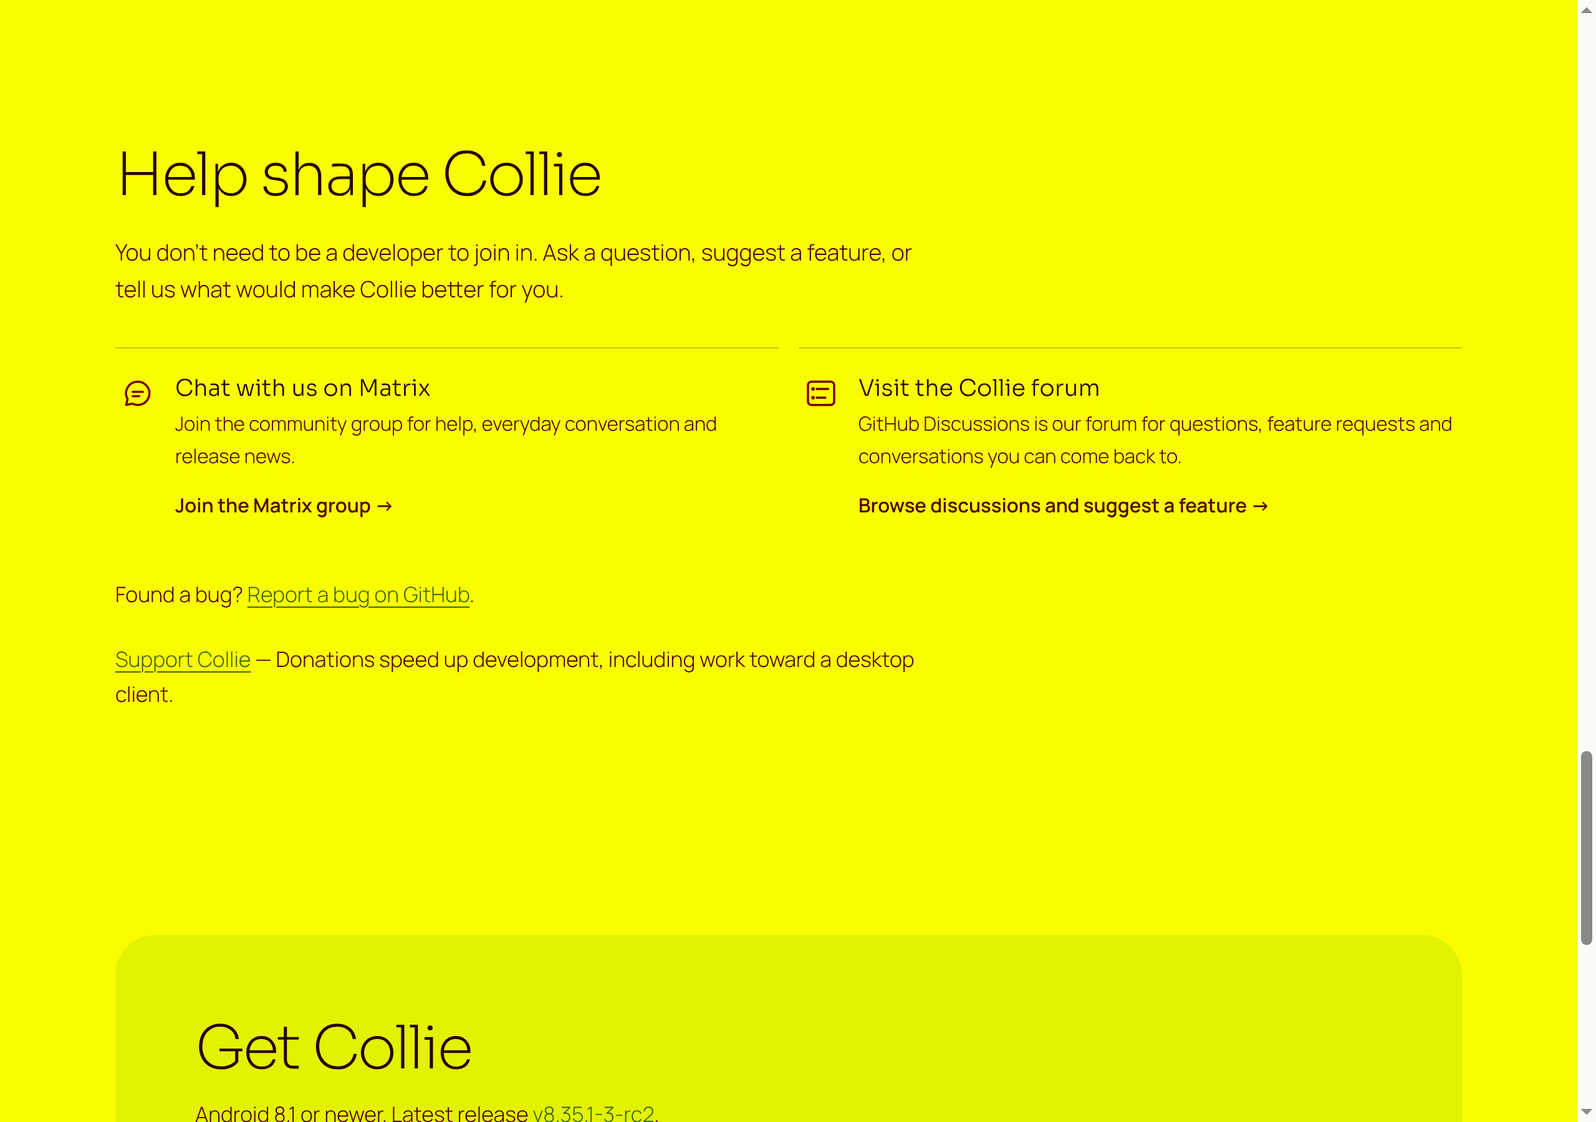
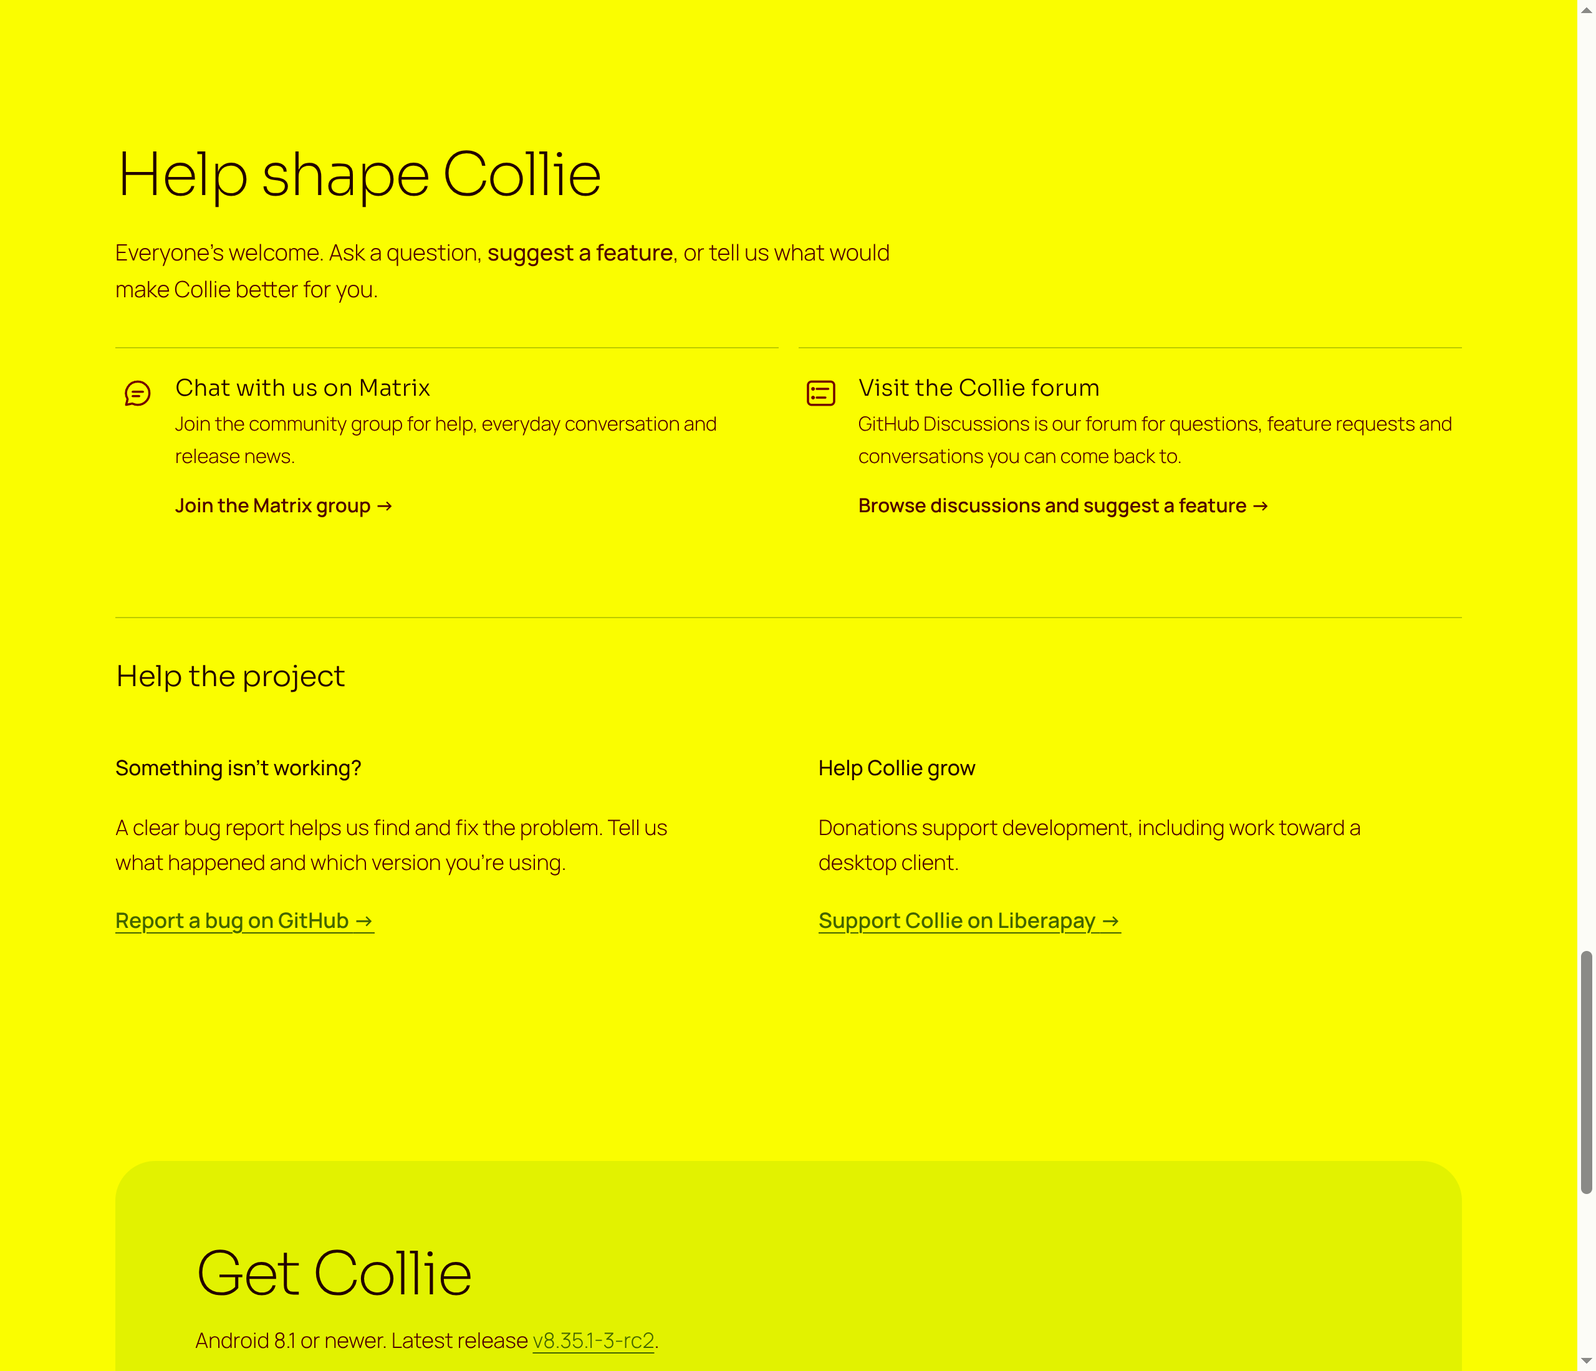
Generate upcoming features from planned Discussions
Refresh the existing Upcoming/Planned Features category during daily website builds, prioritize labelled discussions and distinguish plans from available features. Explain Google-free notifications in plain language and add selective emphasis. Separate bug reporting from donations and give the F-Droid repository the same primary button as Obtainium. Cover filtering, escaping, pagination and API failures; reject output paths that would delete the source.

Layer: website

diff --git a/docs/site/index.html b/docs/site/index.html
@@ -51,6 +51,7 @@ FORM: User-pinned direction (palette, fonts, dark hero with lichen cards), no ro
     <nav aria-label="Main">
       <a href="#features">Features</a>
       <a href="#open">About Collie</a>
+      <a href="#upcoming">Upcoming features</a>
       <a class="nav-community" href="#community">Community</a>
       <a class="nav-get" href="#get">Get Collie</a>
     </nav>
@@ -59,7 +60,7 @@ FORM: User-pinned direction (palette, fonts, dark hero with lichen cards), no ro
   <section class="hero shell" aria-labelledby="hero-title">
     <div class="hero-copy">
       <h1 id="hero-title">Private messages on the Signal&nbsp;network. <span>Stronger protection on your&nbsp;phone.</span></h1>
-      <p class="lede">Collie is a free, open-source Android messenger. Message and call your Signal contacts as you always have, while Collie keeps a tighter hold on what's stored on your device.</p>
+      <p class="lede">Collie is a free, open-source Android messenger. Message and call <strong>your Signal contacts</strong> as you always have, while Collie keeps a tighter hold on what's stored on your device.</p>
       <div class="actions">
         <a class="button primary" href="#get">Get Collie</a>
         <a class="button ghost" href="#community">Meet the community <svg class="ico" aria-hidden="true"><use href="#i-arrow"/></svg></a>
@@ -91,7 +92,7 @@ FORM: User-pinned direction (palette, fonts, dark hero with lichen cards), no ro
       <article class="card featured">
         <svg class="ico big" aria-hidden="true"><use href="#i-lock"/></svg>
         <h3>Locked when you step away</h3>
-        <p>Encrypt your message database with a passphrase you choose. Collie locks itself after a set time, and a lost or stolen phone keeps your conversations encrypted until the passphrase is entered.</p>
+        <p>Encrypt your message database with <strong>a passphrase you choose</strong>. Collie locks itself after a set time, and a lost or stolen phone keeps your conversations encrypted until the passphrase is entered.</p>
       </article>
       <article class="card">
         <svg class="ico" aria-hidden="true"><use href="#i-memory"/></svg>
@@ -106,7 +107,7 @@ FORM: User-pinned direction (palette, fonts, dark hero with lichen cards), no ro
       <article class="card">
         <svg class="ico" aria-hidden="true"><use href="#i-bell"/></svg>
         <h3>Notifications without Google</h3>
-        <p>Use WebSocket or <a href="https://unifiedpush.org/">UnifiedPush</a> instead of Google's push service. UnifiedPush needs a MollySocket server you trust, ideally your own. <a href="https://github.com/0cwa/collieim-android#free-and-open-source">Why it matters</a></p>
+        <p>Use WebSocket or <a href="https://unifiedpush.org/">UnifiedPush</a> instead of Google's push service. UnifiedPush needs a MollySocket server you trust, ideally your own. <a href="#upcoming">Why it matters and why we're working on making it easy.</a></p>
       </article>
       <article class="card">
         <svg class="ico" aria-hidden="true"><use href="#i-fresh"/></svg>
@@ -165,15 +166,38 @@ FORM: User-pinned direction (palette, fonts, dark hero with lichen cards), no ro
     <p class="fine">Collie is independent of Signal and Molly. Signal's <a href="https://signal.org/legal/">Terms and Privacy Policy</a> apply when you use its service.</p>
   </section>
 
+  <section id="upcoming" class="upcoming shell" aria-labelledby="upcoming-title">
+    <h2 id="upcoming-title">Upcoming features</h2>
+    <p class="upcoming-intro">Notifications should work on phones without Google services, too. UnifiedPush lets you <strong>choose who delivers your notifications</strong>, but setup still takes extra steps. We're working on making it easier and bringing these notifications to linked phones, alongside the other plans below.</p>
+    <p class="upcoming-status"><em>Planned work, not features you can use yet. Plans can change; each discussion tracks the latest progress.</em></p>
+    <ul class="roadmap-list">
+      {{UPCOMING_FEATURES}}
+    </ul>
+    <p class="upcoming-more"><a href="https://github.com/0cwa/collieim-android/discussions/categories/upcoming-planned-features">Follow all upcoming features</a> · <a href="https://github.com/0cwa/collieim-android/discussions/categories/ideas-requests">Suggest a feature</a></p>
+  </section>
+
   <section id="community" class="community shell" aria-labelledby="community-title">
     <h2 id="community-title">Help shape Collie</h2>
-    <p class="community-intro">You don't need to be a developer to join in. Ask a question, suggest a feature, or tell us what would make Collie better for you.</p>
+    <p class="community-intro">Everyone's welcome. Ask a question, <strong>suggest a feature</strong>, or tell us what would make Collie better for you.</p>
     <ul class="links">
       <li><a href="https://matrix.to/#/#collieim:worldethicaldataforum.org"><svg class="ico" aria-hidden="true"><use href="#i-chat"/></svg><span><strong>Chat with us on Matrix</strong> Join the community group for help, everyday conversation and release news. <span class="community-action">Join the Matrix group →</span></span></a></li>
       <li><a href="https://github.com/0cwa/collieim-android/discussions"><svg class="ico" aria-hidden="true"><use href="#i-forum"/></svg><span><strong>Visit the Collie forum</strong> GitHub Discussions is our forum for questions, feature requests and conversations you can come back to. <span class="community-action">Browse discussions and suggest a feature →</span></span></a></li>
     </ul>
-    <p class="community-more">Found a bug? <a href="https://github.com/0cwa/collieim-android/issues">Report a bug on GitHub</a>.</p>
-    <p class="community-more"><a href="https://liberapay.com/Collie/">Support Collie</a> — Donations speed up development, including work toward a desktop client.</p>
+    <div class="community-help" aria-labelledby="help-title">
+      <h3 id="help-title">Help the project</h3>
+      <div class="help-options">
+        <div>
+          <h4>Something isn't working?</h4>
+          <p>A clear bug report helps us find and fix the problem. Tell us what happened and which version you're using.</p>
+          <a href="https://github.com/0cwa/collieim-android/issues">Report a bug on GitHub <span aria-hidden="true">→</span></a>
+        </div>
+        <div>
+          <h4>Help Collie grow</h4>
+          <p>Donations support development, including work toward a desktop client.</p>
+          <a href="https://liberapay.com/Collie/">Support Collie on Liberapay <span aria-hidden="true">→</span></a>
+        </div>
+      </div>
+    </div>
   </section>
 
   <section id="get" class="get-wrap shell" aria-labelledby="get-title">
@@ -195,7 +219,7 @@ FORM: User-pinned direction (palette, fonts, dark hero with lichen cards), no ro
             <h3>F-Droid repository</h3>
             <p>Add Collie's own repository to F-Droid or a compatible client. Same signed APK.</p>
           </div>
-          <a class="button quiet" href="https://repo.collie.im/">Open repo.collie.im</a>
+          <a class="button primary" href="https://repo.collie.im/">Open repo.collie.im</a>
         </li>
         <li>
           <div>

diff --git a/docs/site/assets/site.css b/docs/site/assets/site.css
@@ -180,6 +180,16 @@ h3{font:300 1.25rem/1.3 Sora,sans-serif;letter-spacing:-.015em}
 .get-art .ring circle{stroke:var(--redwood-4);stroke-width:5;stroke-dasharray:26 18}
 .get-art img{position:absolute;inset:9%;width:82%;height:82%}
 
+/* ---------- upcoming features ---------- */
+.upcoming{padding-block:clamp(56px,7vw,96px)}
+.upcoming-intro{max-width:66ch;margin-top:24px;color:var(--ink-2);font-size:1.0625rem}
+.upcoming-status{max-width:70ch;margin-top:18px;color:var(--ink-2);font-size:.95rem}
+.roadmap-list{display:grid;grid-template-columns:repeat(2,minmax(0,1fr));gap:0 32px;margin-top:32px}
+.roadmap-list li{border-top:1px solid var(--rule);padding-block:18px}
+.roadmap-list a{display:block;color:var(--ink);text-underline-offset:.2em}
+.upcoming-more{margin-top:28px;max-width:65ch;line-height:1.8}
+@media (max-width:600px){.roadmap-list{grid-template-columns:1fr}}
+
 /* ---------- community ---------- */
 .community{padding-block:clamp(56px,7vw,96px) clamp(72px,9vw,120px)}
 .links{display:grid;grid-template-columns:repeat(2,minmax(0,1fr));gap:16px;margin-top:32px}
@@ -192,7 +202,13 @@ h3{font:300 1.25rem/1.3 Sora,sans-serif;letter-spacing:-.015em}
 
 .community-intro{max-width:60ch;margin-top:20px;color:var(--ink-2);font-size:1.125rem}
 .community-action{margin-top:10px;color:var(--ink);font-weight:600}
-.community-more{margin-top:24px;color:var(--ink-2);max-width:65ch}
+.community-help{margin-top:56px;padding-top:32px;border-top:1px solid var(--rule)}
+.community-help h3{font-size:1.45rem}
+.help-options{display:grid;grid-template-columns:repeat(2,minmax(0,1fr));gap:28px 48px;margin-top:24px}
+.help-options h4{font:500 1.05rem/1.4 Manrope,sans-serif;color:var(--ink)}
+.help-options p{color:var(--ink-2);margin-top:8px;max-width:48ch}
+.help-options a{display:inline-block;margin-top:18px;font-weight:600}
+@media (max-width:600px){.help-options{grid-template-columns:1fr;gap:32px}.community-help{margin-top:40px}}
 .technical-details{margin-top:28px}
 .technical-details summary{cursor:pointer;text-decoration:underline;text-underline-offset:.22em}
 .technical-details .ticks{margin-top:20px}

diff --git a/tooling/site/build.py b/tooling/site/build.py
@@ -10,6 +10,7 @@ release tag and the APK link, and fails if a placeholder is left behind.
 from __future__ import annotations
 
 import argparse
+import html
 import json
 import os
 import re
@@ -23,6 +24,56 @@ SOURCE = ROOT / "docs" / "site"
 REPO = "0cwa/collieim-android"
 APK_NAME = "collie.apk"
 TAG_RE = re.compile(r"^v[0-9][0-9A-Za-z.\-]*$")
+ROADMAP_CATEGORY = "upcoming-planned-features"
+
+
+def fetch_roadmap(repo: str) -> list[dict]:
+    token = os.environ.get("GITHUB_TOKEN") or os.environ.get("GH_TOKEN")
+    if not token:
+        raise SystemExit("GitHub Discussions needs GITHUB_TOKEN; use --roadmap-json for an offline build")
+    owner, name = repo.split("/", 1)
+    query = """query($owner:String!,$name:String!,$after:String) {
+      repository(owner:$owner,name:$name) {
+        discussions(first:100,after:$after,orderBy:{field:UPDATED_AT,direction:DESC}) {
+          pageInfo { hasNextPage endCursor }
+          nodes { number title category { slug } labels(first:100) { nodes { name } } }
+        }
+      }
+    }"""
+    nodes = []
+    cursor = None
+    while True:
+        req = urllib.request.Request(
+            "https://api.github.com/graphql",
+            data=json.dumps({"query": query, "variables": {"owner": owner, "name": name, "after": cursor}}).encode(),
+            headers={"Authorization": f"Bearer {token}", "Content-Type": "application/json", "User-Agent": "collie-site-build"},
+        )
+        with urllib.request.urlopen(req, timeout=30) as response:
+            result = json.load(response)
+        if result.get("errors"):
+            raise SystemExit("Could not read the upcoming-features discussions; check discussions:read permission")
+        connection = result["data"]["repository"]["discussions"]
+        nodes.extend(connection["nodes"])
+        page = connection["pageInfo"]
+        if not page["hasNextPage"]:
+            return nodes
+        if not page["endCursor"] or page["endCursor"] == cursor:
+            raise SystemExit("GitHub Discussions pagination did not advance")
+        cursor = page["endCursor"]
+
+
+def render_roadmap(nodes: list[dict], repo: str) -> str:
+    planned = [node for node in nodes if node["category"]["slug"] == ROADMAP_CATEGORY]
+    planned.sort(key=lambda node: (
+        not any(label["name"].lower() == "priority" for label in node.get("labels", {}).get("nodes", [])),
+        -int(node["number"]),
+    ))
+    if not planned:
+        return "<li>No upcoming features are listed right now. Share an idea in our forum.</li>"
+    return "\n      ".join(
+        f'<li><a href="https://github.com/{repo}/discussions/{int(node["number"])}">{html.escape(node["title"])}</a></li>'
+        for node in planned
+    )
 
 
 def latest_release(repo: str) -> str:
@@ -41,30 +92,39 @@ def latest_release(repo: str) -> str:
     return release["tag_name"]
 
 
-def build(out: Path, tag: str, repo: str) -> None:
+def build(out: Path, tag: str, repo: str, roadmap: list[dict] | None = None) -> None:
+    out = out.resolve()
+    if out == SOURCE.resolve() or out in SOURCE.resolve().parents:
+        raise SystemExit("output directory must not contain the website source")
     if not TAG_RE.match(tag):
         raise SystemExit(f"unexpected release tag: {tag!r}")
+    if not re.fullmatch(r"[A-Za-z0-9_.-]+/[A-Za-z0-9_.-]+", repo):
+        raise SystemExit("unexpected repository name")
+    upcoming = render_roadmap(fetch_roadmap(repo) if roadmap is None else roadmap, repo)
     if out.exists():
         shutil.rmtree(out)
     shutil.copytree(SOURCE, out, ignore=shutil.ignore_patterns("*.md"))
     values = {
         "RELEASE_TAG": tag,
         "APK_URL": f"https://github.com/{repo}/releases/latest/download/{APK_NAME}",
+        "UPCOMING_FEATURES": upcoming,
+
     }
-    page = out / "index.html"
-    html = page.read_text(encoding="utf-8")
-    for key, value in values.items():
-        html = html.replace("{{" + key + "}}", value)
-    left = re.findall(r"\{\{[A-Z_]+\}\}", html)
-    if left:
-        raise SystemExit(f"unfilled placeholders: {sorted(set(left))}")
-    page.write_text(html, encoding="utf-8")
+    for page in out.rglob("*.html"):
+        rendered = page.read_text(encoding="utf-8")
+        for key, value in values.items():
+            rendered = rendered.replace("{{" + key + "}}", value)
+        left = re.findall(r"\{\{[A-Z_]+\}\}", rendered)
+        if left:
+            raise SystemExit(f"unfilled placeholders in {page.name}: {sorted(set(left))}")
+        page.write_text(rendered, encoding="utf-8")
 
     # Every local file the page or stylesheet points at must exist.
     css = (out / "assets" / "site.css").read_text(encoding="utf-8")
-    refs = re.findall(r'(?:href|src)="((?!https?:|#|mailto:)[^"]+)"', html)
-    refs += ["assets/" + r for r in re.findall(r"url\(([^)\"']+)\)", css)]
-    missing = [r for r in refs if r not in ("./",) and not (out / r).is_file()]
+    refs = [(out / "assets" / ref) for ref in re.findall(r"url\(([^)\"']+)\)", css)]
+    for page in out.rglob("*.html"):
+        refs += [page.parent / ref for ref in re.findall(r'(?:href|src)="((?![a-zA-Z][a-zA-Z0-9+.-]*:|#)[^"]+)"', page.read_text(encoding="utf-8"))]
+    missing = [str(ref.relative_to(out)) for ref in refs if not ref.is_file() and not (ref / "index.html").is_file()]
     if missing:
         raise SystemExit(f"missing local files: {missing}")
     print(f"built {out} for {tag}")
@@ -75,8 +135,10 @@ def main() -> int:
     ap.add_argument("--out", type=Path, required=True)
     ap.add_argument("--tag", help="release tag to show; default: ask GitHub for the latest release")
     ap.add_argument("--repo", default=REPO)
+    ap.add_argument("--roadmap-json", type=Path, help="offline JSON array of discussion nodes (number, title, category.slug, labels.nodes)")
     args = ap.parse_args()
-    build(args.out.resolve(), args.tag or latest_release(args.repo), args.repo)
+    roadmap = json.loads(args.roadmap_json.read_text(encoding="utf-8")) if args.roadmap_json else None
+    build(args.out.resolve(), args.tag or latest_release(args.repo), args.repo, roadmap)
     return 0
 
 

diff --git a/tooling/site/test_build.py b/tooling/site/test_build.py
@@ -1,0 +1,78 @@
+"""Checks for generated roadmap content and safe output handling."""
+import io
+import json
+import tempfile
+import unittest
+from pathlib import Path
+from unittest.mock import patch
+
+import build
+
+
+def discussion(number, title, category='upcoming-planned-features', priority=False):
+    return {'number': number, 'title': title, 'category': {'slug': category},
+            'labels': {'nodes': [{'name': 'priority'}] if priority else []}}
+
+
+class RoadmapTest(unittest.TestCase):
+    def test_only_accepted_category_is_published_and_priority_comes_first(self):
+        nodes = [discussion(2, 'Later'), discussion(9, 'Requested only', 'ideas-requests'),
+                 discussion(1, 'First priority', priority=True)]
+        result = build.render_roadmap(nodes, '0cwa/collieim-android')
+        self.assertNotIn('Requested only', result)
+        self.assertLess(result.index('First priority'), result.index('Later'))
+        self.assertIn('/discussions/1', result)
+
+    def test_discussion_titles_cannot_inject_markup(self):
+        result = build.render_roadmap([discussion(1, '<script>alert("x")</script> & more')], 'owner/repo')
+        self.assertNotIn('<script>', result)
+        self.assertIn('&lt;script&gt;', result)
+        self.assertIn('&amp; more', result)
+
+    def test_empty_category_does_not_imply_work_is_promised(self):
+        self.assertIn('No upcoming features', build.render_roadmap([], 'owner/repo'))
+
+    def test_fetch_reads_all_pages(self):
+        def response(nodes, more, cursor):
+            return io.BytesIO(json.dumps({'data': {'repository': {'discussions': {
+                'nodes': nodes, 'pageInfo': {'hasNextPage': more, 'endCursor': cursor}}}}}).encode())
+        pages = [response([discussion(1, 'One')], True, 'next'), response([discussion(2, 'Two')], False, 'last')]
+        with patch.dict('os.environ', {'GITHUB_TOKEN': 'test-only-value'}), patch('urllib.request.urlopen', side_effect=pages) as fetch:
+            self.assertEqual([1, 2], [n['number'] for n in build.fetch_roadmap('owner/repo')])
+        self.assertEqual('next', json.loads(fetch.call_args_list[1].args[0].data)['variables']['after'])
+
+    def test_api_errors_fail_instead_of_publishing_an_empty_roadmap(self):
+        with patch.dict('os.environ', {'GITHUB_TOKEN': 'test-only-value'}), patch('urllib.request.urlopen', return_value=io.BytesIO(b'{"errors":[{"message":"denied"}]}')):
+            with self.assertRaisesRegex(SystemExit, 'discussions:read'):
+                build.fetch_roadmap('owner/repo')
+
+    def test_source_and_ancestors_are_not_deleted(self):
+        with tempfile.TemporaryDirectory() as directory:
+            root = Path(directory)
+            source = root / 'docs/site'
+            source.mkdir(parents=True)
+            sentinel = source / 'keep.txt'
+            sentinel.write_text('keep')
+            with patch.object(build, 'SOURCE', source):
+                for out in (source, source.parent, root):
+                    with self.subTest(out=out), self.assertRaisesRegex(SystemExit, 'must not contain'):
+                        build.build(out, 'v1.2', 'owner/repo', [])
+                    self.assertEqual('keep', sentinel.read_text())
+
+    def test_built_page_contains_real_discussion_links_and_no_placeholders(self):
+        with tempfile.TemporaryDirectory() as directory:
+            root = Path(directory)
+            source = root / 'source'
+            (source / 'assets').mkdir(parents=True)
+            (source / 'assets/site.css').write_text('body{}')
+            (source / 'index.html').write_text('<p>{{RELEASE_TAG}}</p><ul>{{UPCOMING_FEATURES}}</ul>')
+            with patch.object(build, 'SOURCE', source):
+                build.build(root / 'out', 'v1.2', 'owner/repo', [discussion(5, 'Linked phones')])
+            page = (root / 'out/index.html').read_text()
+            self.assertNotIn('{{', page)
+            self.assertIn('https://github.com/owner/repo/discussions/5', page)
+            self.assertIn('Linked phones', page)
+
+
+if __name__ == '__main__':
+    unittest.main()

diff --git a/docs/site/README.md b/docs/site/README.md
@@ -8,7 +8,7 @@ deploys it to GitHub Pages at https://collie.im.
 
 ```sh
 python3 tooling/site/build.py --out /path/to/out              # uses the latest GitHub release
-python3 tooling/site/build.py --out /path/to/out --tag v8.35.1-3-rc2   # offline
+python3 tooling/site/build.py --out /path/to/out --tag v8.35.1-3-rc2 --roadmap-json /path/to/discussions.json  # offline
 cd /path/to/out && python3 -m http.server 8000
 ```
 
@@ -55,3 +55,22 @@ Pull requests only build. The APK button always points at
 | `assets/collie-icon.svg`, `collie-foreground.svg` | `docs/assets/` unchanged |
 | `assets/og.png` | `docs/assets/collie-feature-graphic.svg` rendered at 1200 px wide with `rsvg-convert` |
 | `assets/screens/*.webp` | `fastlane/metadata/android/en-US/images/phoneScreenshots/` 3, 4 and 6, resized to 540 px wide with `cwebp -q 82` |
+
+## Upcoming features
+
+The page is generated from the repository's **Upcoming/Planned Features**
+Discussion category (`upcoming-planned-features`). Maintain titles and plans in
+those discussions. Moving a discussion into or out of that category adds or
+removes it on the next build. Discussions labelled `priority` appear first.
+Feature requests in other categories do not appear as promised work.
+
+The daily build reads GitHub's Discussions API with `discussions: read`. A failed
+API request fails the build and leaves the last deployed site intact. Local
+builds use `GITHUB_TOKEN` (or `GH_TOKEN`), or `--roadmap-json` for an offline JSON
+array of discussion nodes with `number`, `title`, `category.slug`, and optional
+`labels.nodes` fields. Titles are escaped before rendering. The site links to the
+source discussions and makes clear that planned features are not yet available.
+
+Run `python3 -m unittest discover -s tooling/site -p 'test_*.py' -v` to check
+category filtering, priority ordering, title escaping, API pagination/failures,
+output-directory safety and the built page.
